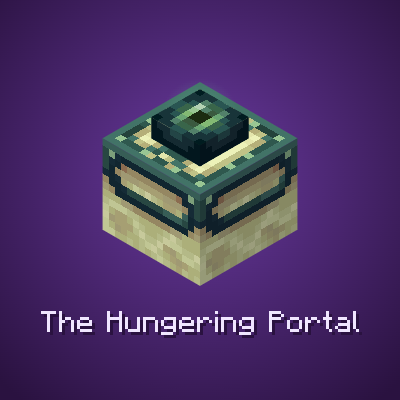
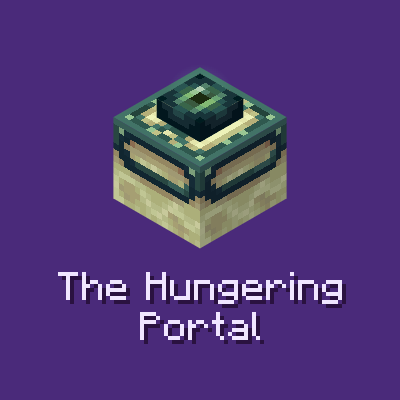
Flat background, wordmark over two lines

diff --git a/branding/icon-source.html b/branding/icon-source.html
@@ -12,14 +12,13 @@ canvas{image-rendering:pixelated;margin:8px}
   const SIZES = [512, 400, 128];
 
   // --- tunables (authored at 512) ---
-  const BLOCK_S   = 9;     // pixels per 1/16 block
-  const BLOCK_CY  = 222;   // vertical anchor of the block's projection origin
-  const TEXT_TOP  = 398;
+  const BLOCK_S   = 8;     // pixels per 1/16 block
+  const BLOCK_CY  = 190;   // vertical anchor of the block's projection origin
+  const TEXT_TOP  = 348;
   const TEXT_MAXW = 440;
-  const LINES     = ['The Hungering Portal'];
+  const LINES     = ['The Hungering', 'Portal'];
 
-  const BG_IN  = '#6a3aa0';
-  const BG_OUT = '#2a1240';
+  const BG     = '#4a2a7a';
   const TEXT   = '#f0e6ff';
   const SHADOW = '#2a1240';
 
@@ -58,11 +57,7 @@ canvas{image-rendering:pixelated;margin:8px}
     const ctx = c.getContext('2d');
     ctx.imageSmoothingEnabled = false;
 
-    // Purple ground, brighter behind the block so it reads as lit.
-    const g = ctx.createRadialGradient(SZ / 2, BLOCK_CY * k, 0, SZ / 2, BLOCK_CY * k, SZ * 0.72);
-    g.addColorStop(0, BG_IN);
-    g.addColorStop(1, BG_OUT);
-    ctx.fillStyle = g;
+    ctx.fillStyle = BG;
     ctx.fillRect(0, 0, SZ, SZ);
 
     drawBlock(ctx, SZ / 2, BLOCK_CY * k, BLOCK_S * k);
